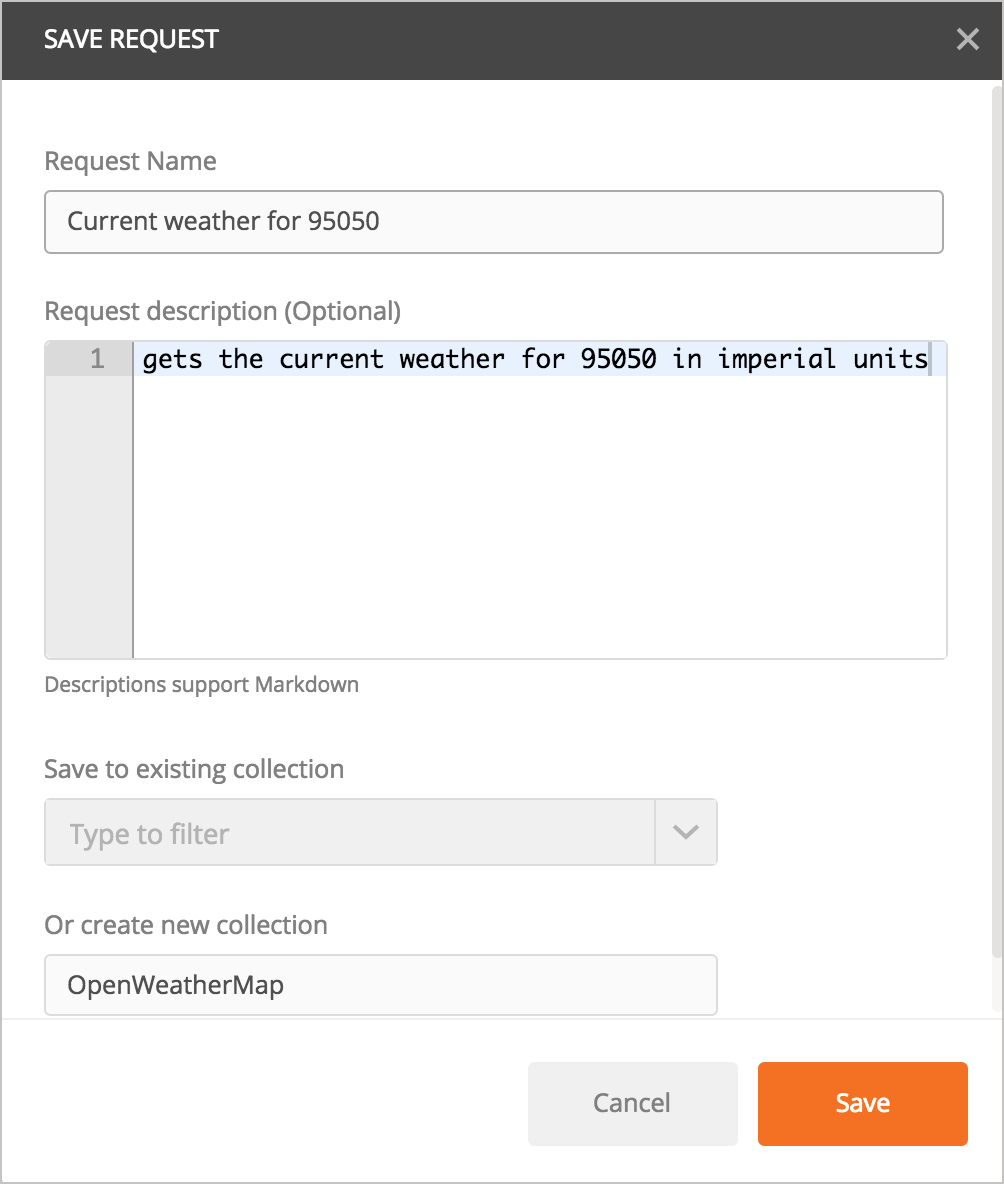
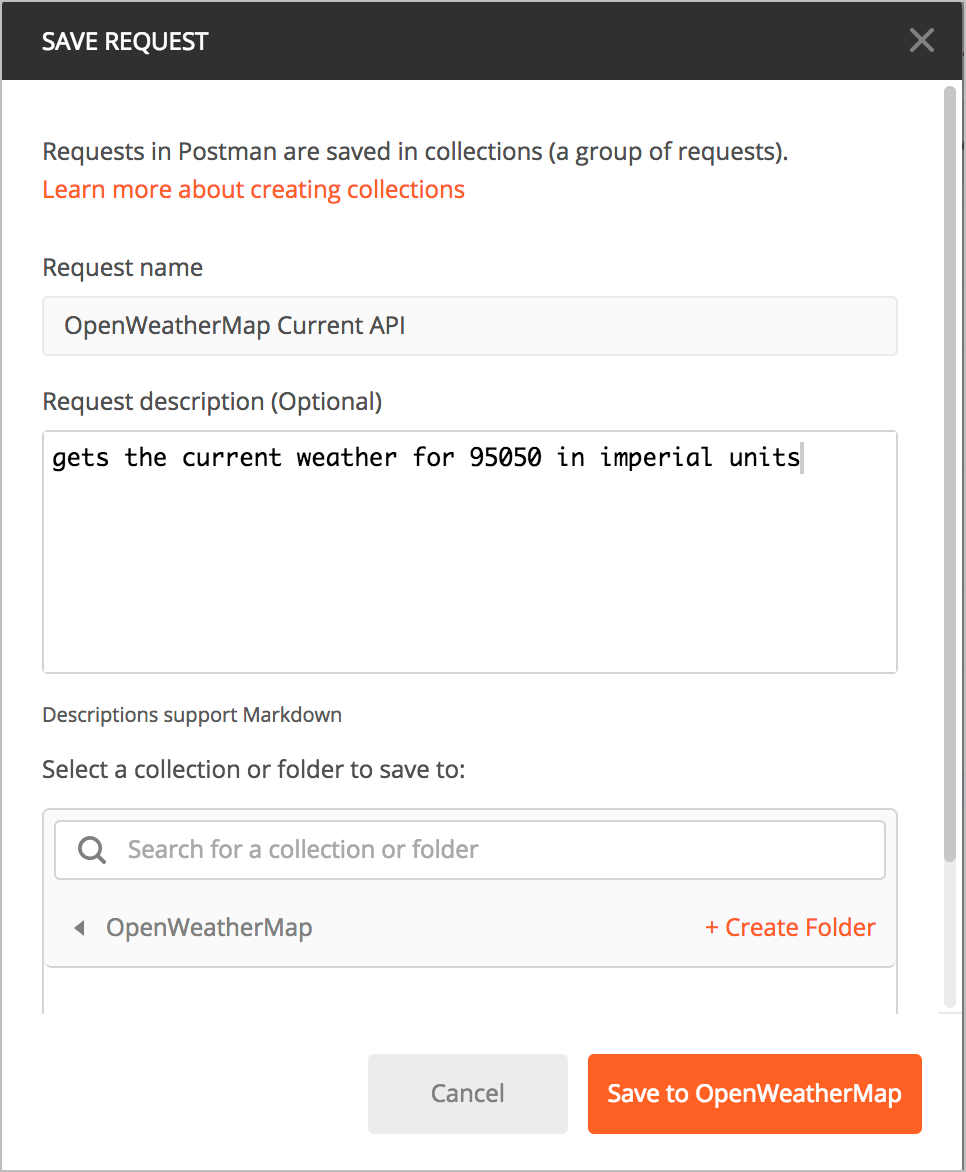
updates to postman section

diff --git a/_docs/using_an_api_like_a_developer/docapis_postman.md b/_docs/using_an_api_like_a_developer/docapis_postman.md
@@ -39,7 +39,7 @@ Some popular GUI clients include the following:
 Of the various GUI clients available, Postman is probably the best option, since it allows you to save both calls and responses, is free, works on both Mac and PC, and is easy to configure.
 
 {: .note}
-A lot of times abstract concepts don't make sense until you can contextualize them with some kind of action. In this course, I'm following more of an "act-first-then-understand" type of methodology. After you do an activity, we'll explore the concepts in more depth. So if it seems like I'm glossing over concepts now, such as what a GET method is or a endpoint, hang in there. When we deep dive into these points later, these concepts will be a lot clearer.
+A lot of times abstract concepts don't make sense until you can contextualize them with some kind of action. In this course, I'm following more of an "act-first-then-understand" type of methodology. After you do an activity, we'll explore the concepts in more depth. So if it seems like I'm glossing over concepts now, such as what a GET method is or a endpoint, hang in there. When we deep dive into these points in [Documenting API endpoints](docendpoints.html), these concepts will be a lot clearer.
 
 {% include random_ad2.html %}
 
@@ -57,14 +57,14 @@ Like Postman, Paw also allows you to easily see the request headers, response he
 
 ## Enter several requests for the Aeris API into Postman
 
-Now let's switch APIs a bit and see some weather information from the [Aeris Weather API](https://www.aerisweather.com/), which you explored a bit in [Scenarios for using a weather API](docapis_scenario_for_using_weather_api.html). Constructing the endpoints for the Aeris Weather API is a bit more complicated since there are many different queries, filters, and other parameters you can use to configure the endpoint.
+Now let's switch APIs a bit and see some weather information from the [Aeris Weather API](https://www.aerisweather.com/), which you explored a bit in [Scenarios for using a weather API](docapis_scenario_for_using_weather_api.html#aeris). Constructing the endpoints for the Aeris Weather API is a bit more complicated since there are many different queries, filters, and other parameters you can use to configure the endpoint.
 
-Here are a few pre-configured requests to configure for Aeris. You can just paste the requests directly into the URL request box in Postman, and the parameters will auto-populate in the parameter fields.
+Here are a few pre-configured requests to configure for Aeris. You can just paste the requests directly into the URL request box in Postman (after customizing the `CLIENTID` AND `CLIENTSECRET` values), and the parameters will auto-populate in the parameter fields.
 
 As with the OpenWeather Map API, the Aeris API doesn't use a Header field to pass the API keys &mdash; the key and secret are passed directly in the request URL as part of the query string.
 
 {: .note}
-When you make the following requests, insert your own values for the <code>CLIENTID</code> and <code>CLIENTSECRET</code> (assuming you retrieved them in [Get the authorization keys](docapis_get_auth_keys.html)). If you don't have a client ID or secret, you can use my keys [here](https://idratherbewriting.com/learnapidoc/assets/files/apikeys.txt).
+When you make the following requests, insert your own values for the <code>CLIENTID</code> and <code>CLIENTSECRET</code> (assuming you retrieved them in [Get the authorization keys](docapis_get_auth_keys.html#aeris_weather_apikey)). If you don't have a client ID or secret, you can use my keys [here](https://idratherbewriting.com/learnapidoc/assets/files/apikeys.txt).
 
 Get the weather forecast for your area using the [observations endpoint](https://www.aerisweather.com/support/docs/api/reference/endpoints/observations/):
 
@@ -91,7 +91,7 @@ http://api.aerisapi.com/normals/flagstaff,az?client_id=CLIENTID&client_secret=CL
 ```
 
 {: .tip}
-With both the OpenWeatherMap and Aeris Weather API, you can also make these requests by simply going to the URL in your address bar (because the APIs are passed in the query string rather than the header). Use the [JSON Formatter plugin for Chrome](https://chrome.google.com/webstore/detail/json-formatter/bcjindcccaagfpapjjmafapmmgkkhgoa?hl=en) to automatically format the JSON response.
+With both the OpenWeatherMap and Aeris Weather API, you can also make these requests by simply going to the URL in your address bar (because the APIs are passed in the query string rather than the header). You can use the [JSON Formatter extension for Chrome](https://chrome.google.com/webstore/detail/json-formatter/bcjindcccaagfpapjjmafapmmgkkhgoa?hl=en) to automatically format the JSON response in the browser view.
 
 By looking at these two different weather APIs, you can see some differences in the way the information is called and returned. However, fundamentally both APIs have endpoints that you can configure with parameters. When you make requests with the endpoints, you get responses that contain information, often in JSON format. This is the core of how REST APIs work &mdash; you send a request and get a response.
 
@@ -144,4 +144,4 @@ If this button doesn't work for you, copy this [import link](https://www.getpost
 Clicking the Run in Postman buttons should automatically prompt you to import the collections into Postman. If it doesn't work, copy the import link address and, in Postman, click **Import** in the upper-left corner. Then click the **Import From Link** tab, paste in the address, and then click **Import**.
 
 {: .tip}
-If you'd like to learn more about Postman, listen to this [interview with the Postman founder](https://idratherbewriting.com/2018/01/22/postman-for-docs-podcast/). We recorded this as part of the [Write the Docs podcast](http://podcast.writethedocs.org/) and focused on the documentation features within Postman.
+If you'd like to learn more about Postman, listen to this [interview with the Postman founder](https://idratherbewriting.com/2018/01/22/postman-for-docs-podcast/). We recorded this as part of the [Write the Docs podcast](http://podcast.writethedocs.org/) and focused on the documentation features within Postman. For more information on creating the Run in Postman buttons, see the [Run in Postman button](docapis_doc_getting_started_section.html#runinpostmanbutton) section in the [Getting started tutorial](docapis_doc_getting_started_section.html).

diff --git a/_includes/content/activities/postman_request.md b/_includes/content/activities/postman_request.md
@@ -5,10 +5,10 @@
 In this exercise, you'll use Postman to make a request using OpenWeatherMap's [current weather data API endpoint](https://openweathermap.org/current). To make the request:
 
 1.  If you haven't already done so, download and install the Postman app at [http://www.getpostman.com](https://www.getpostman.com/).
-2.  Start the Postman app (and enjoy the quirky messages that appear while the app loads).
+2.  Start the Postman app.
 3.  If necessary, select **GET** for the method. (This is the default.)
 4.  Insert the following endpoint into the box next to GET: `https://api.openweathermap.org/data/2.5/weather`.
-5.  Click the **Params** button (to the right of the box where you inserted the endpoint) and then add the following three parameters. You'll need to insert the key into the Param's **key** field and the value into the Param's **value** field:
+5.  Click the **Params** tab (below the box where you inserted the endpoint) and then add the following three parameters in the **key** and **value** rows:
 
     * key: `zip` / value: `95050`
     * key: `units` / value: `imperial`
@@ -20,7 +20,7 @@ In this exercise, you'll use Postman to make a request using OpenWeatherMap's [c
 
     <img src="images/postmanopenweatherapi.png" class="medium"/>
 
-	  When you add these parameters, they will dynamically be added as a query string to the endpoint URL in the GET box. For example, your endpoint will now look like this: `https://api.openweathermap.org/data/2.5/weather?zip=95050&appid=fd4698c940c6d1da602a70ac34f0b147&units=imperial` (but with different query string values). Query string parameters appear after the question mark `?` symbol and are separated ampersands `&`. The order of query string parameters doesn't matter.
+	  When you add these parameters, they will dynamically be added as a query string to the endpoint URL in the GET box. For example, your endpoint will now look like this: `https://api.openweathermap.org/data/2.5/weather?zip=95050&units=imperial&appid=fd4698c940c6d1da602a70ac34f0b147` (but with different query string values). Query string parameters appear after the question mark `?` symbol and are separated ampersands `&`. The order of query string parameters doesn't matter.
 
     Many APIs pass the API key in the header rather than as a query string parameter in the request URL. (If that were the case, you would click the **Headers** tab and insert the required key-value pairs in the header.)
 
@@ -33,20 +33,21 @@ In this exercise, you'll use Postman to make a request using OpenWeatherMap's [c
 ### Save the request
 
 1.  In Postman, click the **Save** button (next to Send).
-1.  In the Save Request dialog box, in the **Request Name** box at the top, type a friendly name for the request, such as "Current weather for 95050."
-3.  Scroll down a bit in the Save Request dialog box. Next to **Or create new collection**, create a new collection by typing the collection name in the box, such as "OpenWeatherMap." Collections are simply groups to organize your saved requests.
+1.  In the Save Request dialog box, in the **Request Name** box at the top, type a friendly name for the request, such as "OpenWeatherMap Current API."
+1.  In the **Request description (Optional)** field, type a description such as "gets the current weather for 95050 in imperial units."
+3.  Scroll down a bit and click **Create collection** to create a folder to save the request in (e.g. "OpenWeatherMap"). Then select the new collection you just created.
 
-    Your Postman collection should look something like this:
+    After you create the collection, the Save button will be enabled. Your Postman collection should look something like this:
 
     <img src="images/postmancollectiondialog.png" class="small"/>
 
-4.  Click **Save.**
+4.  Click **Save to [collection name]**
 
-Saved endpoints appear in the left side pane under Collections. (If you don't see the Collections pane, click the **Show/Hide Sidebar** button {% if site.format == "web" %}<img style="vertical-align: bottom" src="images/postmanexpandcollections.png"/>{% endif %} in the upper-left corner to expand it.)
+Saved endpoints appear in the left side pane under Collections. (If you don't see the Collections pane, click the **Show/Hide Sidebar** button in the lower-left corner to expand it.
 
 ### Make a request for the OpenWeatherMap 5 day forecast
 
-Now instead of getting the current weather, let's use another endpoint to get the forecast. Enter details into Postman for the [5 day forecast request](https://openweathermap.org/forecast5). In Postman, you can click a new tab, or click the arrow next to Save and choose **Save As**. Then choose your collection and request name.
+Now instead of getting the current weather, let's use another OpenWeatherMap endpoint to get the forecast. Enter details into Postman for the [5 day forecast request](https://openweathermap.org/forecast5). In Postman, you can click a new tab, or click the arrow next to Save and choose **Save As**. Then choose your collection and request name.
 
 A sample endpoint for the 5 day forecast, which specifies location by zip code, looks like this:
 
@@ -61,5 +62,13 @@ https://api.openweathermap.org/data/2.5/forecast?zip=95050&appid=APIKEY&units=im
 ```
 
 (In the above code, replace out `APIKEY` with your own API key.)
+
+### Make one more OpenWeatherMap API request
+
+Make one more OpenWeatherMap API request, this time changing the parameters you're using to specify the location (for either endpoint). For example, if you specified the location by zip code, change it to `lat` and `lon` geocoordinates instead. For example:
+
+```bash
+https://api.openweathermap.org/data/2.5/weather?lat=37.3565982&lon=-121.9689848&units=imperial&appid=fd4698c940c6d1da602a70ac34f0b147
+```
 
 {% if page.workshop_activities == true %}*For more information related to this activity, see [Submit requests through Postman](docapis_postman.html).*{% endif %}

diff --git a/_docs/using_an_api_like_a_developer/docapis_get_auth_keys.md b/_docs/using_an_api_like_a_developer/docapis_get_auth_keys.md
@@ -11,7 +11,7 @@ section: likeadeveloper
 path1: /likeadeveloper.html
 ---
 
-Almost every API has a method in place to authenticate requests. You usually have to provide an API key in your requests to get a response. Although we'll dive into [authentication and authorization](docapis_more_about_authorization.html) later, we need to get some API keys now in order to make requests to the weather API.
+Almost every API has a method in place to authenticate requests. You usually have to provide an API key in your requests to get a response. Although we'll dive into [authentication and authorization](docapis_more_about_authorization.html) later, we need to get some API keys now in order to make requests to our weather API.
 
 * TOC
 {:toc}
@@ -27,17 +27,13 @@ Requiring authorization allows API publishers to do the following:
 In order to run the code samples in this course, you will need to use your own API keys, since these keys are usually treated like passwords and not given out or published openly on a web page.
 
 {: .tip}
-If you want to borrow my API keys, you can access them [here](https://idratherbewriting.com/learnapidoc/assets/files/apikeys.txt). I sometimes find that workshop participants get hung up in trying to acquire simple API keys, so I'd like to remove that roadblock from you if you're running into issues.
+Even though you should treat API keys like passwords, if you want to borrow my API keys, you can access them [here](https://idratherbewriting.com/learnapidoc/assets/files/apikeys.txt). I sometimes find that workshop participants get hung up in trying to acquire API keys, so I make them available here to avoid hangups and delays in the activities.
 
 {% include random_ad.html %}
 
-## Get authorization keys
-
-In order to work with the APIs in the upcoming activities, you'll need to get some API keys.
-
 {% include content/activities/get_authorization_keys.md %}
 
-### Get the Aeris Weather API secret and ID {#aeris_weather_apikey}
+## Get the Aeris Weather API secret and ID {#aeris_weather_apikey}
 
 Now for contrast, let's get the keys for the Aeris Weather API. The Aeris Weather API requires both a secret and ID to make requests.
 
@@ -60,9 +56,9 @@ After your app registers, you should see an ID, secret, and namespace for the ap
 {: .tip}
 Keep in mind how users authorize calls with an API &mdash; this is something you usually cover in API documentation. Later in the course we will dive into [authorization methods](docapis_more_about_authorization.html) in more detail.
 
-## Text editor tips
+## Make sure you have a text editor
 
-When you're working with code, you use a text editor (to work in plain text) instead of a rich text editor (which would provide a WYSIWYG interface). Many developers use different text editors. Here are a few choices:
+In the upcoming activities, you'll work with code in a text file. When you're working with code, you use a text editor (to work in plain text) instead of a rich text editor (which would provide a WYSIWYG interface). Here are a few choices for text editors:
 
 * [Sublime Text](http://www.sublimetext.com/) (Mac or PC)
 * [TextWrangler](http://www.barebones.com/products/textwrangler/) or [BBedit](http://www.barebones.com/products/bbedit/) (Mac)

diff --git a/_docs/using_an_api_like_a_developer/docapis_scenario_for_using_weather_api.md b/_docs/using_an_api_like_a_developer/docapis_scenario_for_using_weather_api.md
@@ -50,7 +50,7 @@ Although there are [many good weather API options for developers](https://superd
 
 {% include content/activities/explore_openweathermap_api.md %}
 
-## Explore the Aeris Weather API
+## Explore the Aeris Weather API {#aeris}
 
 Before diving too far down int the OpenWeatherMap API, let's look at another weather API for contrast. In contrast to the OpenWeatherMap API, the [Aeris Weather API](http://www.aerisweather.com/) is a bit more robust and extensive. Explore the Aeris Weather API by doing the following:
 
@@ -68,7 +68,7 @@ Before diving too far down int the OpenWeatherMap API, let's look at another wea
 {: .tip}
 Here's the Aeris weather forecast API in action making mostly the same calls as I showed earlier with OpenWeatherMap: <a href="https://idratherbewriting.com/learnapidoc/assets/files/wind-aeris.html" alt="Aeris example">idratherbewriting.com/learnapidoc/assets/files/wind-aeris.html</a>.
 
-For this scenario, there are dozens of different weather APIs we could use. As you create your API documentation, think about whether your users have the same decisions to make. Are there several other APIs that developers can choose from for the same information? What will make your API stand out more? Although you probably can't define your product roadmap, you might at least argue that the docs for your API will be superior!
+For our development scenario (showing weather on a website), there are dozens of different weather APIs we could use. As you create your API documentation, think about how your users might have to make the same decisions in choosing APIs. Are there several APIs that provide similar information? What will make your API stand out more? Although you probably can't pick and choose what information your API returns, you might at least argue that the docs for your API will be superior!
 
 ## More weather APIs
 

diff --git a/_docs/introduction_to_rest_apis/docapis_what_is_a_rest_api.md b/_docs/introduction_to_rest_apis/docapis_what_is_a_rest_api.md
@@ -23,7 +23,7 @@ This course is all about learning by doing, but while *doing* various activities
 
 In general, an API (or Application Programming Interface) provides an interface between two systems. It's like a cog that allows two systems to interact with each other. In this case, the two systems are computers that interact programmatically through the API.
 
-<figure><a class="noCrossRef" href="http://bit.ly/1DexWM0" class="noExtIcon"><img class="medium" class="small" src="images/spinning_gears.jpg" alt="Spinning gears. By Brent 2.0. Flickr." /></a><figcaption>An API is like a cog that allows two different systems to interact. Image from <a href='https://www.flickr.com/photos/brentinoz/'>Brent 2.0</a>, <a href='http://bit.ly/1DexWM0'>spinning gears</a>, <a href='https://creativecommons.org/licenses/by-nd/2.0/legalcode'>CC BY-ND 2.0</a></figcaption></figure>
+<figure><a class="noCrossRef" href="http://bit.ly/1DexWM0" class="noExtIcon"><img class="medium" class="small" src="images/spinning_gears.jpg" alt="Spinning gears. By Brent 2.0. Flickr." /></a><figcaption>An API is like a cog that allows two different systems to interact. (Image from <a href='https://www.flickr.com/photos/brentinoz/'>Brent 2.0</a>, <a href='http://bit.ly/1DexWM0'>spinning gears</a>, <a href='https://creativecommons.org/licenses/by-nd/2.0/legalcode'>CC BY-ND 2.0</a>.)</figcaption></figure>
 
 APIs are often pulling and pushing data underneath user interfaces. Jim Bisso, an experienced API technical writer in the Silicon Valley area, describes APIs by using the analogy of your computer's calculator. When you press buttons, functions underneath are interacting with other components to get information. Once the information is returned, the calculator presents the data back to the GUI.
 

diff --git a/_includes/content/activities/get_authorization_keys.md b/_includes/content/activities/get_authorization_keys.md
@@ -1,11 +1,11 @@
 ## <i class="fa fa-user-circle"></i> Activity 2a: Get an OpenWeatherMap API key {#openweathermap_apikey}
 
-To make calls to the OpenWeatherMap API, you'll need authorization keys. To get the keys:
+To get an API key for the OpenWeatherMap API:
 
-1.  On [https://openweathermap.org/](https://openweathermap.org/), click **Sign Up** in the top nav bar and create an account.
-2.  After you sign up, sign in and find your default API key from the developer dashboard. It’s under the **API Keys** tab.
-3.  Copy the key into a place you can easily find it.
-
-(If your API key doesn't work or is inactive, you can use this one: `fd4698c940c6d1da602a70ac34f0b147`.)
+1.  Go to [https://openweathermap.org/](https://openweathermap.org/).
+2.  Click **Sign Up** in the top navigation bar and create an account.
+3.  After you sign up, return to the OpenWeatherMap homepage and click **Sign in**.
+4.  After signing in, you'll see the developer dashboard. Click the **API Keys** tab.
+5.  Copy the key into a place you can easily find it.
 
 {% if page.workshop_activities == true %}*For more information related to this activity, see [Get authorization keys](docapis_get_auth_keys.html).*{% endif %}

diff --git a/_docs/introduction_to_rest_apis/docapis_workshop_activities.md b/_docs/introduction_to_rest_apis/docapis_workshop_activities.md
@@ -13,6 +13,8 @@ redirect_from:
 
 For API workshops, it helps to consolidate activities into a single page with brief instructions. The content for the activities below is the same content that appears in other parts of the course &mdash; it's just pulled in here (single-sourced) for convenience. Workshops require a healthy amount of hands-on activities to be engaging. If you have feedback about how to improve the activities, or places where you keep getting stuck, [let me know](https://idratherbewriting.com/learnapidoc/contact.html).
 
+Note that not all activities in this course are consolidated here (since participants can only do so much during a workshop). Only workshop activities are denoted with the <i class="fa fa-user-circle"></i> icon.
+
 {% if site.format == "kindle" or site.format == "pdf" %}
 
 {: .note}
